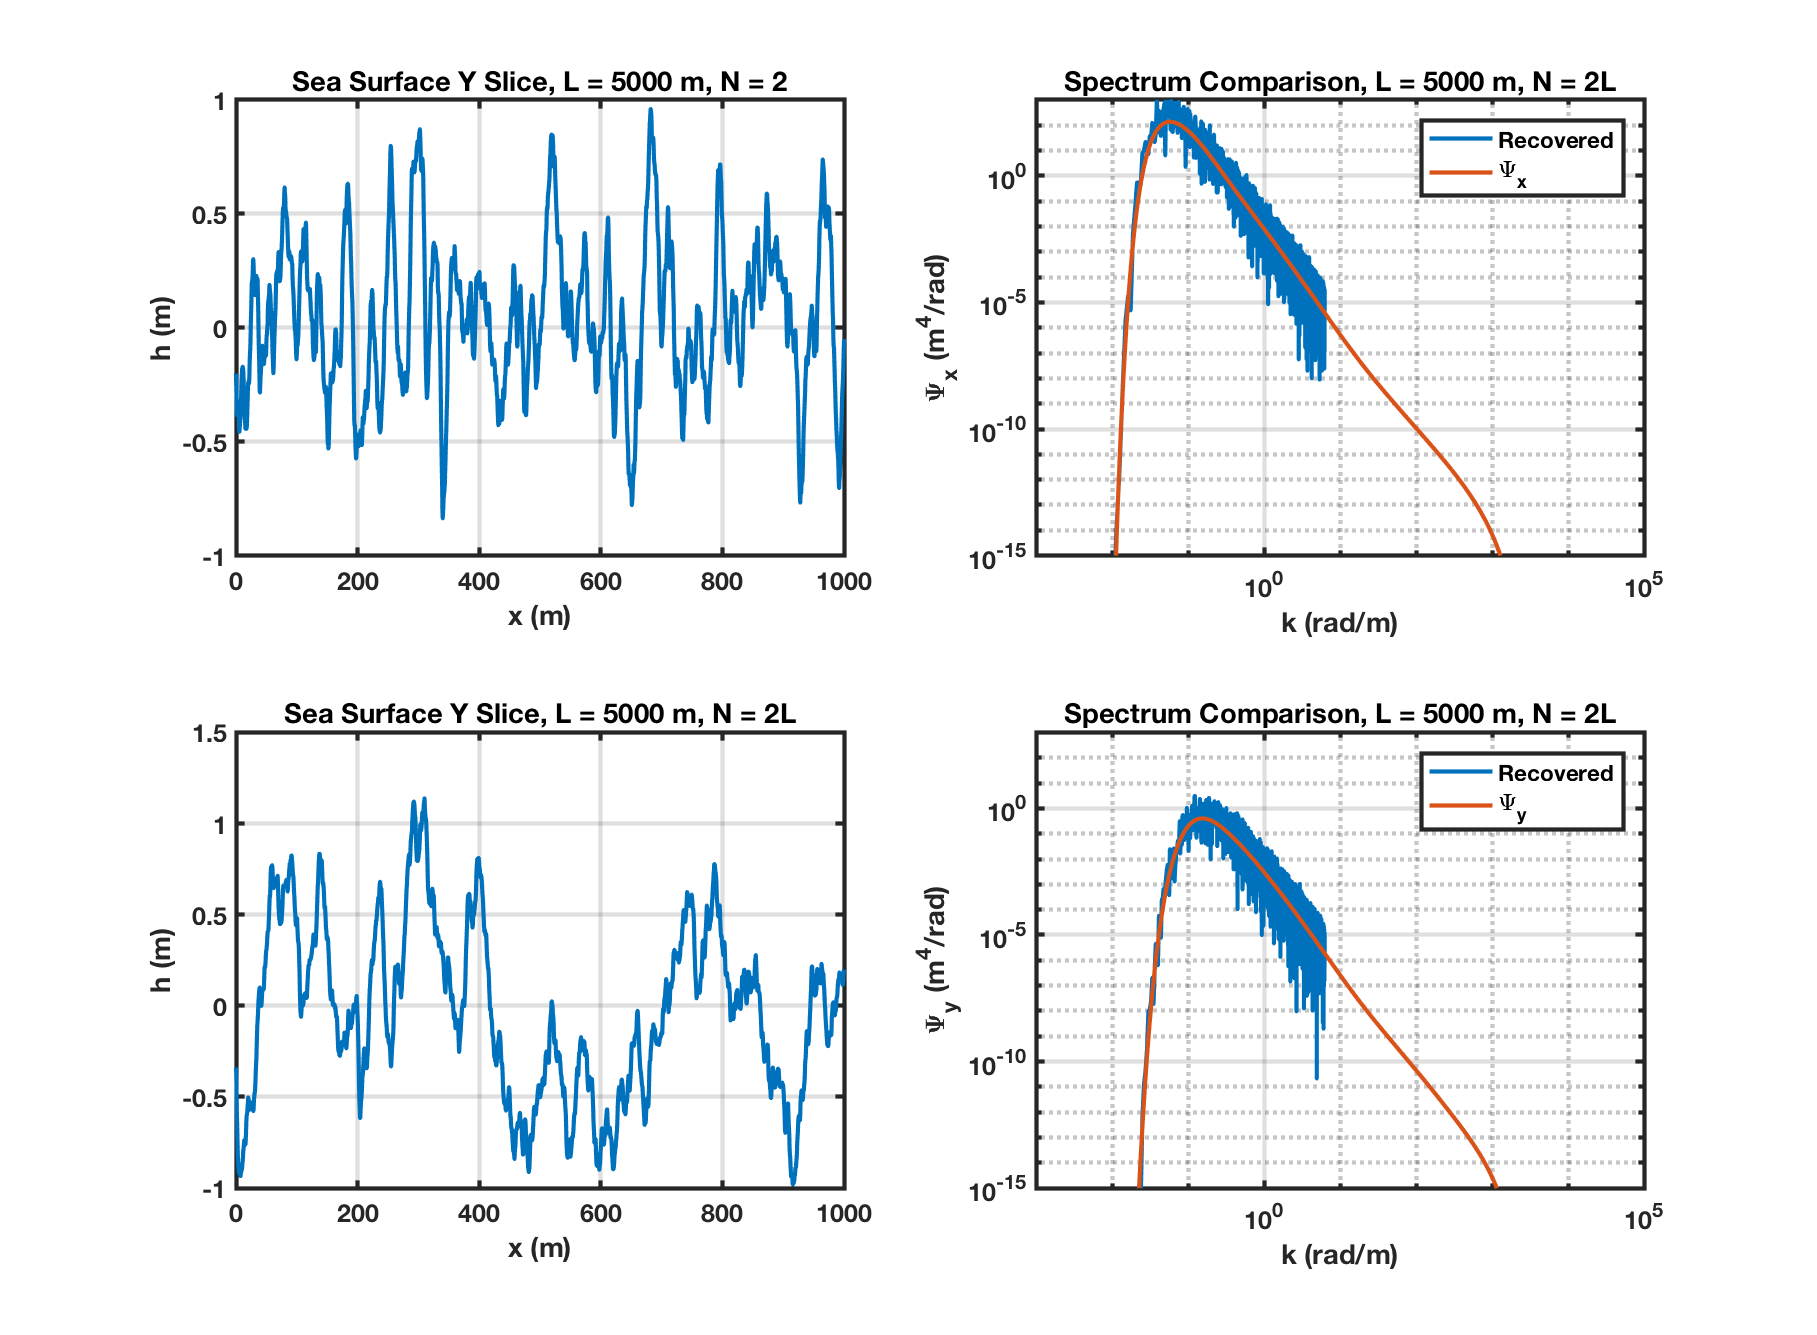
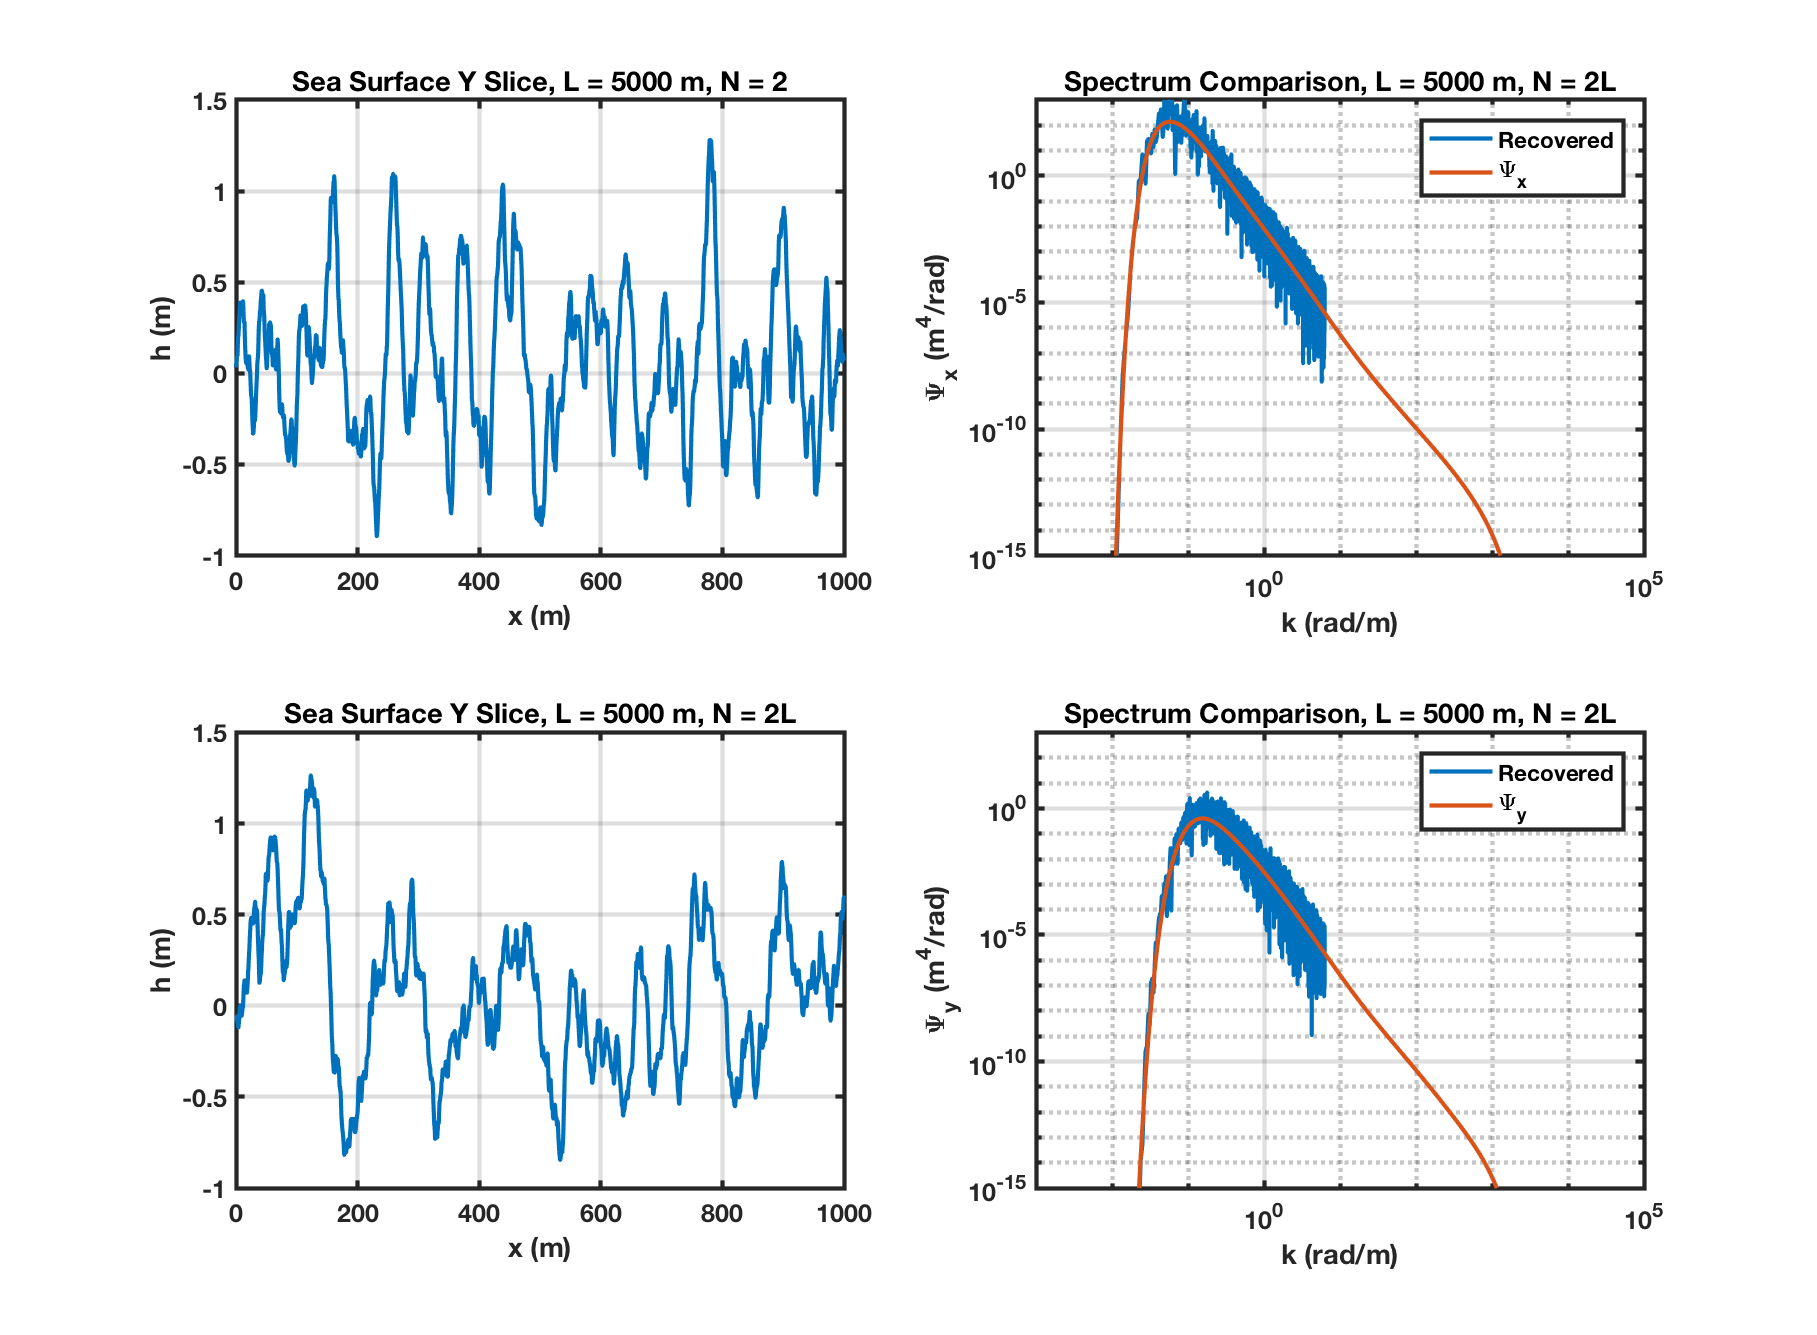
using N = 10L for 1000m 2D, adding statistics to hdf5 files

diff --git a/src/ocean_surface_generation.tex b/src/ocean_surface_generation.tex
@@ -525,10 +525,10 @@ Figure \ref{os_fig:10} shows slices along the $N/2$ element in both the $x$ and 
 \end{figure}
 \renewcommand{\baselinestretch}{2} \small\normalsize
  
-Figure \ref{os_fig:8a} shows the same thing as Figure \ref{os_fig:8} but with $N=5L$ instead of $N = 2L$.
+Figure \ref{os_fig:8a} shows the same thing as Figure \ref{os_fig:8} but with $N=10L$ instead of $N = 2L$.
 \begin{figure}[H]
   \begin{center}
-\includegraphics[width=6in]{../media/Ocean_Surface/sea_surface_2d_surf_1000_5.png}
+\includegraphics[width=6in]{../media/Ocean_Surface/sea_surface_2d_surf_1000_10.png}
   \end{center}
   \renewcommand{\baselinestretch}{1} \small\normalsize
   \begin{quote}
@@ -538,10 +538,10 @@ Figure \ref{os_fig:8a} shows the same thing as Figure \ref{os_fig:8} but with $N
 \renewcommand{\baselinestretch}{2} \small\normalsize
 
 
-Figure \ref{os_fig:10a} shows the same thing as Figure \ref{os_fig:10} but with $N=5L$ instead of $N = 2L$.
+Figure \ref{os_fig:10a} shows the same thing as Figure \ref{os_fig:10} but with $N=10L$ instead of $N = 2L$.
 \begin{figure}[H]
   \begin{center}
-\includegraphics[width=6in]{../media/Ocean_Surface/sea_surface_2d_slices_1000_5.png}
+\includegraphics[width=6in]{../media/Ocean_Surface/sea_surface_2d_slices_1000_10.png}
   \end{center}
   \renewcommand{\baselinestretch}{1} \small\normalsize
   \begin{quote}

diff --git a/mfiles/create2DOceanSurfaces.m b/mfiles/create2DOceanSurfaces.m
@@ -61,6 +61,15 @@ totalTime = 0;
         h5writeatt(fname,'/surface','N (unitless)',N);
         h5writeatt(fname,'/surface','dk (rad/m)',2*pi/L);
         
+        %get the statistics
+        h1 = reshape(h,1,N^2);
+        h5writeatt(fname,'/surface','std (m)' ,std(h1));
+        h5writeatt(fname,'/surface','var (m)' ,var(h1));
+        h5writeatt(fname,'/surface','max (m)' ,max(h1));
+        h5writeatt(fname,'/surface','min (m)' ,min(h1));
+        h5writeatt(fname,'/surface','wave height (m)' ,max(h1) - min(h1));
+        h5writeatt(fname,'/surface','mean (m)' ,mean(h1));
+        
         %get the final time
         t2 = cputime-t1;
         
